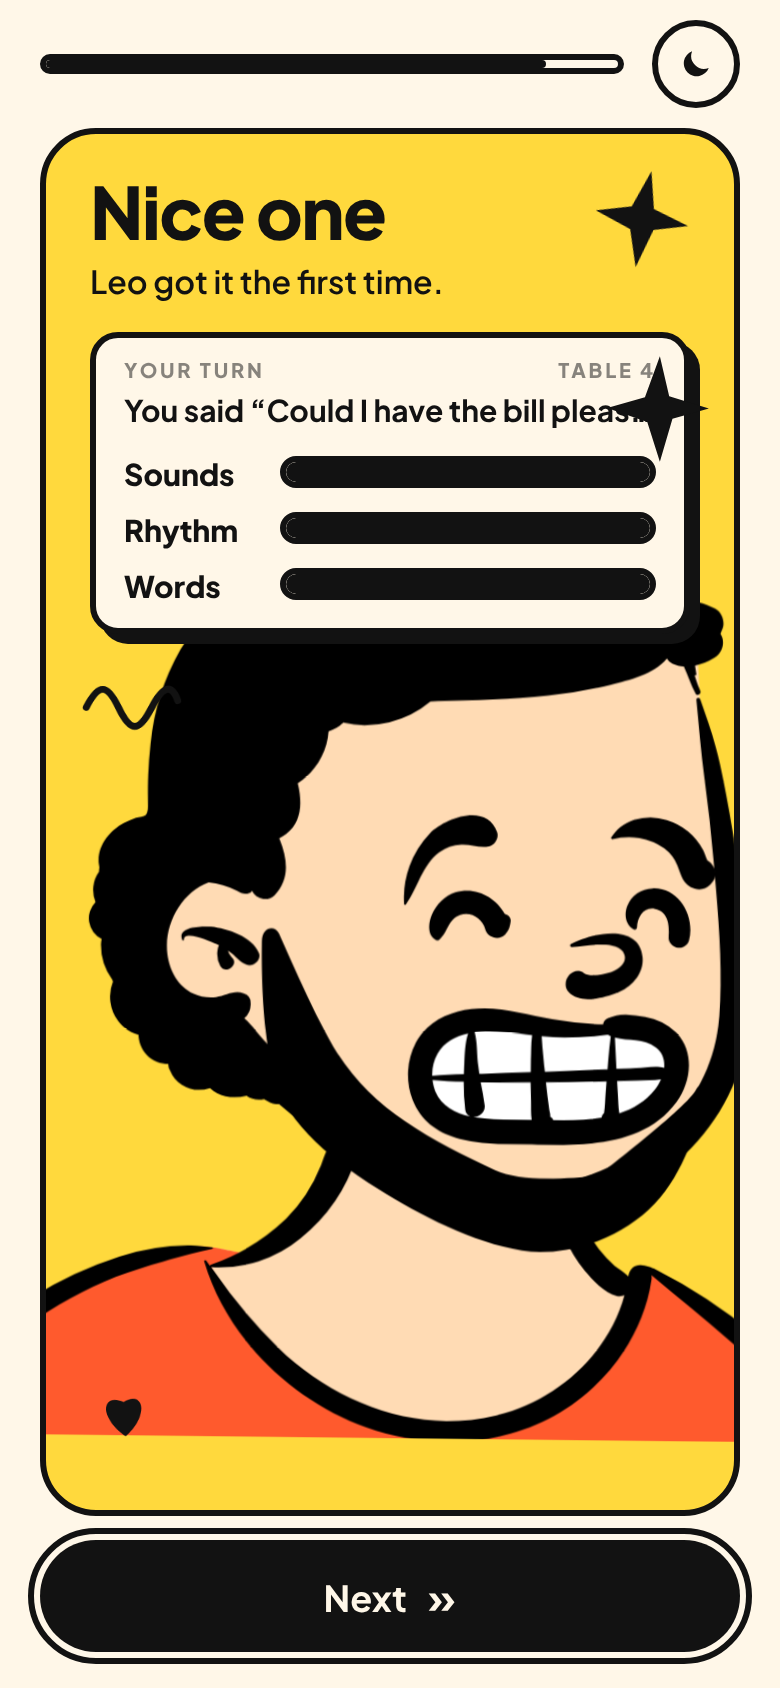
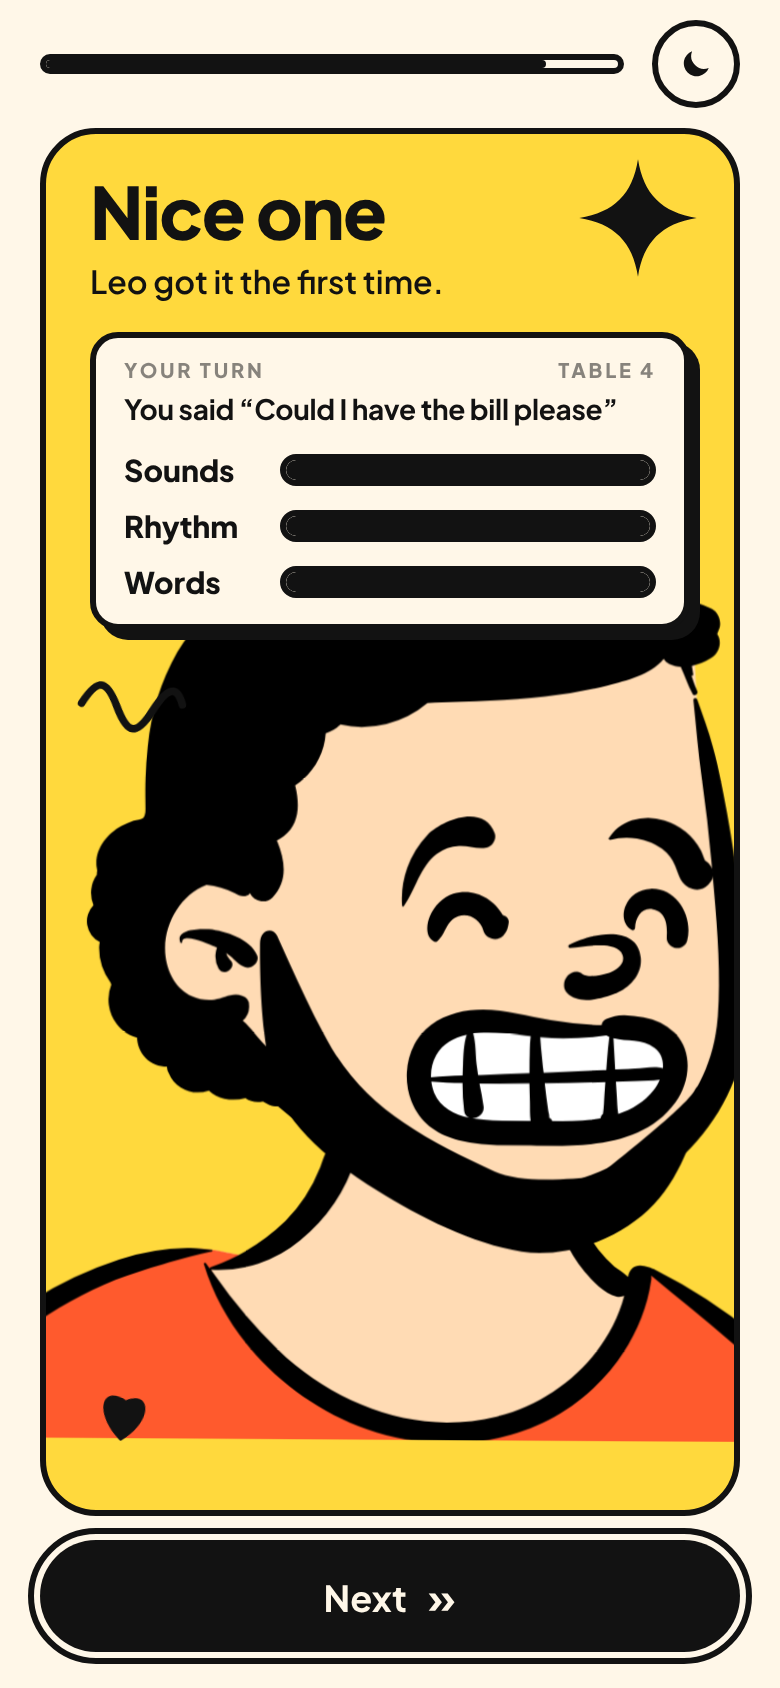
Agent snapshot: remaining round-two prototypes in progress
Claude-Session: https://claude.ai/code/session_01WMiyDundBQ1atNssiSuPtV

diff --git a/docs/prototypes/03-build-the-sentence.html b/docs/prototypes/03-build-the-sentence.html
@@ -102,7 +102,7 @@ h1{margin:0;font-weight:800;font-size:36px;line-height:1.04;letter-spacing:-.02e
 .score .row:nth-child(2){animation-delay:.06s}.score .row:nth-child(3){animation-delay:.12s}
 .score .track{height:16px;border:3px solid var(--ink);border-radius:999px;overflow:hidden}
 .score .track i{display:block;height:100%;width:0;background:var(--ink);border-radius:999px;transition:width .5s var(--spring)}
-.said{margin:0 0 8px;font-size:15px;font-weight:700;line-height:1.3;white-space:nowrap;overflow:hidden;text-overflow:ellipsis;animation:rise .36s var(--spring) both}
+.said{margin:0 0 8px;font-size:14px;letter-spacing:-.01em;font-weight:700;line-height:1.3;white-space:nowrap;overflow:hidden;text-overflow:ellipsis;animation:rise .36s var(--spring) both}
 .said q{quotes:"\201C" "\201D"}
 
 /* ---------- Leo, oversized and cropped at the card edge ----------
@@ -137,7 +137,8 @@ h1{margin:0;font-weight:800;font-size:36px;line-height:1.04;letter-spacing:-.02e
 .stick svg{display:block}
 .tw{animation:twinkle 4s ease-in-out infinite}
 @keyframes twinkle{0%,100%{transform:scale(1) rotate(0)}42%{transform:scale(1.2) rotate(11deg)}68%{transform:scale(.93) rotate(-5deg)}}
-.s-star{top:20px;right:24px}
+.s-star{top:20px;right:24px;transition:opacity .2s}
+.card.burst-on .s-star{opacity:0}
 .s-squiggle{top:232px;left:18px;animation-delay:.9s}
 .s-heart{bottom:34px;left:24px;animation-delay:1.8s}
 .card.tall .s-squiggle{top:268px}
@@ -162,7 +163,7 @@ h1{margin:0;font-weight:800;font-size:36px;line-height:1.04;letter-spacing:-.02e
 @keyframes blink{0%,92%,100%{transform:scaleY(1)}94%,98%{transform:scaleY(.1)}}
 .blobert #bl-arm-right,.blobert #bl-broom{transform-origin:184px 120px;transition:transform .16s var(--spring)}
 .blobert.sweep #bl-arm-right,.blobert.sweep #bl-broom{animation:sweep .7s var(--spring) 1 both}
-@keyframes sweep{0%{transform:rotate(-55deg)}45%{transform:rotate(48deg)}100%{transform:rotate(0)}}
+@keyframes sweep{0%{transform:rotate(-30deg)}40%{transform:rotate(95deg)}70%{transform:rotate(70deg)}100%{transform:rotate(0)}}
 .blobert #bl-arm-left{transform-origin:62px 128px}
 .blobert.wave #bl-arm-left{animation:wave .32s ease-in-out 2}
 @keyframes wave{0%,100%{transform:rotate(0)}50%{transform:rotate(-70deg)}}
@@ -323,7 +324,7 @@ h1{margin:0;font-weight:800;font-size:36px;line-height:1.04;letter-spacing:-.02e
         </g>
         <g id="bl-arm-left"><path d="M62 128c-16 4-26 16-24 30"/><circle cx="36" cy="160" r="8" fill="#CDB8FF"/></g>
         <g id="bl-arm-right"><path d="M184 120c16 2 28 12 30 26"/><circle cx="216" cy="148" r="8" fill="#CDB8FF"/></g>
-        <g id="bl-broom" transform="rotate(-24 216 148)"><path d="M216 148l10-70" stroke-width="6"/><path fill="#FFD93D" d="M214 78l24 0 8 30-40 0z"/><path d="M222 108l-2 14M232 108l0 14M242 108l2 14" stroke-width="4"/></g>
+        <g id="bl-broom"><g transform="rotate(-24 216 148)"><path d="M216 148l10-70" stroke-width="6"/><path fill="#FFD93D" d="M214 78l24 0 8 30-40 0z"/><path d="M222 108l-2 14M232 108l0 14M242 108l2 14" stroke-width="4"/></g></g>
         <g id="bl-stars" fill="#121212" stroke="none"><path d="M40 60l4 10 10 4-10 4-4 10-4-10-10-4 10-4z"/><path d="M196 44l3 7 7 3-7 3-3 7-3-7-7-3 7-3z"/></g>
       </svg>
     </div>
@@ -427,6 +428,12 @@ h1{margin:0;font-weight:800;font-size:36px;line-height:1.04;letter-spacing:-.02e
     lastSticker = keys[Math.floor(Math.random() * keys.length)];
     return lastSticker;
   }
+  function popStar(size, shape){
+    var cr = card.getBoundingClientRect();
+    card.classList.add("burst-on");
+    setTimeout(function(){ card.classList.remove("burst-on"); }, 1700);
+    return popSticker(cr.width - 24 - size + 2, 20 - (size - 44) / 2, size, shape);
+  }
   function popSticker(x, y, size, shape){
     var s = document.createElement("span");
     s.className = "burst go";
@@ -522,6 +529,8 @@ h1{margin:0;font-weight:800;font-size:36px;line-height:1.04;letter-spacing:-.02e
     return lastGag;
   }
   function caption(text, x, y){
+    var sr = slip.getBoundingClientRect(), cr = card.getBoundingClientRect();
+    y = Math.max(y, sr.top - cr.top - 16); x = Math.min(Math.max(x, 12), cr.width - 90);
     var c = document.createElement("span");
     c.className = "cap"; c.textContent = text;
     c.style.left = x + "px"; c.style.top = y + "px";
@@ -633,8 +642,7 @@ h1{margin:0;font-weight:800;font-size:36px;line-height:1.04;letter-spacing:-.02e
     mood("happy"); pose("happy");
     slip.style.transform = "rotate(1deg) scale(1.03)";
     setTimeout(function(){ slip.style.transform = ""; }, 500);
-    var sr = slip.getBoundingClientRect(), cr = card.getBoundingClientRect();
-    popSticker(sr.right - cr.left - 56, sr.top - cr.top - 34, 64, "burst");
+    popStar(72, "burst");
     setHead("That's it", "Now say it to Leo.");
     announce("Sentence complete. " + SENTENCE);
     bank.classList.add("out");
@@ -675,7 +683,7 @@ h1{margin:0;font-weight:800;font-size:36px;line-height:1.04;letter-spacing:-.02e
     phase = "speak"; mood("listen"); pose("listen");
     setHead("Your turn", "Say: " + SENTENCE);
     listening(false);
-    bank.hidden = true; typed.hidden = false; cta.disabled = true; key.hidden = true;
+    bank.hidden = true; typed.hidden = false; cta.disabled = true; key.hidden = true; $("cta-row").hidden = true;
     say.value = ""; say.focus();
   }
   typed.onsubmit = function(e){ e.preventDefault(); if (say.value.trim()) scored(say.value); };
@@ -706,8 +714,7 @@ h1{margin:0;font-weight:800;font-size:36px;line-height:1.04;letter-spacing:-.02e
     setHead(good ? "Nice one" : "Nearly", good ? "Leo got it the first time." : "Try it with me once more.");
     progress(7);
     if (good){
-      var cr = card.getBoundingClientRect(), r2 = score.getBoundingClientRect();
-      popSticker(r2.right - cr.left - 30, r2.top - cr.top - 50, 56);
+      popStar(64);
     }
     announce((good ? "Nice one. " : "Nearly. ") + "Sounds " + Math.round(s * 100) + ", rhythm " + Math.round(r * 100) + ", words " + Math.round(w * 100) + " out of 100.");
     listening(false);

diff --git a/docs/prototypes/09-yesterday-today-tomorrow.html b/docs/prototypes/09-yesterday-today-tomorrow.html
@@ -154,7 +154,6 @@ h1{margin:0;font-size:32px;line-height:1.05;font-weight:800;letter-spacing:-.02e
 @keyframes twinkle{0%,100%{transform:scale(1) rotate(0)}42%{transform:scale(1.2) rotate(11deg)}68%{transform:scale(.93) rotate(-5deg)}}
 .s-star{top:18px;right:18px}
 .s-squig{bottom:150px;right:14px;animation-delay:1.1s}
-.s-heart{bottom:34px;left:16px;animation-delay:2s}
 .burst{position:absolute;z-index:5;width:72px;height:72px;color:var(--ink);pointer-events:none;opacity:0}
 .burst svg{width:100%;height:100%;display:block}
 .burst.go{animation:burst .55s var(--spring) both}
@@ -252,11 +251,11 @@ h1{margin:0;font-size:32px;line-height:1.05;font-weight:800;letter-spacing:-.02e
 #bl-arm-right,#bl-broom{transform-box:view-box;transform-origin:184px 120px}
 #bl-stars{opacity:0}
 .blob.sweep #bl-arm-right,.blob.sweep #bl-broom{animation:sweep .34s ease-in-out both}
-@keyframes sweep{0%{transform:rotate(0)}50%{transform:rotate(88deg)}100%{transform:rotate(60deg)}}
+@keyframes sweep{0%{transform:rotate(40deg)}50%{transform:rotate(118deg)}100%{transform:rotate(80deg)}}
 .blob.crane #bl-arm-right,.blob.crane #bl-broom{animation:crane .36s var(--ease) both}
-@keyframes crane{0%{transform:rotate(0)}45%{transform:rotate(96deg)}100%{transform:rotate(-30deg)}}
+@keyframes crane{0%{transform:rotate(0)}40%{transform:rotate(112deg)}100%{transform:rotate(-20deg)}}
 .blob.flick #bl-arm-right,.blob.flick #bl-broom{animation:flick .3s var(--ease) both}
-@keyframes flick{0%{transform:rotate(80deg)}60%{transform:rotate(-70deg)}100%{transform:rotate(-40deg)}}
+@keyframes flick{0%{transform:rotate(110deg)}60%{transform:rotate(-50deg)}100%{transform:rotate(-20deg)}}
 .blob.eat #bl-mouth{transform-box:fill-box;transform-origin:50% 30%;animation:chomp .32s ease-in-out both}
 @keyframes chomp{0%{transform:scale(1)}40%{transform:scale(1.5,2.2)}70%{transform:scale(1.1,1.4)}100%{transform:scale(1)}}
 .blob.eat #bl-stars{animation:burp .4s var(--ease) .3s both}
@@ -346,7 +345,6 @@ h1{margin:0;font-size:32px;line-height:1.05;font-weight:800;letter-spacing:-.02e
     <!-- stickers -->
     <span class="stick s-star tw" aria-hidden="true"><svg width="40" height="40" viewBox="0 0 24 24"><path d="M12.4.9 14.4 9.5 22.9 12.1 15.1 14.3 12.4 23.5 9.7 15 1.1 12 9.2 9.7Z" fill="currentColor"/></svg></span>
     <span class="stick s-squig tw" aria-hidden="true"><svg width="50" height="30" viewBox="0 0 50 24" fill="none" stroke="currentColor" stroke-width="3.4" stroke-linecap="round"><path d="M2.5 16C7 4.2 14.5 20.9 20.5 11.1 24.4 4.8 31 17.5 36 9.4c2.6-4.2 7-1.4 11.5-4.4"/></svg></span>
-    <span class="stick s-heart tw" aria-hidden="true"><svg width="30" height="30" viewBox="0 0 24 24"><path d="M11.7 21.6C1.5 13.4 3.1 3.9 12 7.9c8.2-4.8 10.7 5.6.4 14.1Z" fill="currentColor"/></svg></span>
     <span class="burst" id="burst" aria-hidden="true"></span>
     <div class="bubble" id="bubble" hidden></div>
   </div>
@@ -608,6 +606,7 @@ h1{margin:0;font-size:32px;line-height:1.05;font-weight:800;letter-spacing:-.02e
   function blobertGag(tile, done) {
     var g;
     do { g = Math.floor(Math.random() * GAGS.length); } while (g === lastGag);
+    if (window.__forceGag && GAGS.indexOf(window.__forceGag) >= 0) g = GAGS.indexOf(window.__forceGag);
     lastGag = g;
     var gag = GAGS[g];
     var tr = tile.getBoundingClientRect();
@@ -615,9 +614,9 @@ h1{margin:0;font-size:32px;line-height:1.05;font-weight:800;letter-spacing:-.02e
     // he stands on the side with room, his broom hand level with the tile
     var fromRight = tr.left + tr.width / 2 < window.innerWidth / 2;
     var flip = fromRight ? "scaleX(-1) " : "";
-    var left = fromRight ? tr.right - 30 : tr.left - bw + 30;
-    var top = tr.top - 104;
-    if (gag === "eat") { left = tr.left + tr.width / 2 - bw / 2 + (fromRight ? 8 : -8); top = tr.top - 112; }
+    var left = fromRight ? tr.right - 44 : tr.left - bw + 44;
+    var top = tr.top - 150;
+    if (gag === "eat") { left = tr.left + tr.width / 2 - bw / 2 + (fromRight ? 8 : -8); top = tr.top - 124; }
     blob.style.left = left + "px"; blob.style.top = top + "px";
     blob.className = "blob " + gag;
     var fromX = fromRight ? -120 : 120;
@@ -765,6 +764,7 @@ h1{margin:0;font-size:32px;line-height:1.05;font-weight:800;letter-spacing:-.02e
   var sayIndex = 0;
   function startSay() {
     phase = "say";
+    knob.setAttribute("aria-disabled", "true");
     sayIndex = 0;
     tries = 0;
     rail.hidden = true;
@@ -879,7 +879,7 @@ h1{margin:0;font-size:32px;line-height:1.05;font-weight:800;letter-spacing:-.02e
     if (phase === "build") {
       if (built[t]) { var left = [0, 1, 2].filter(function (i) { return !built[i]; }); if (left.length) setTime(left[0], true); }
       if (ok) pickTile(tiles[t]);
-      else pickTile(tiles[(t + 1) % 3]);
+      else { var wrong = [0, 1, 2].filter(function (i) { return i !== t && !built[i]; }); pickTile(tiles[wrong.length ? wrong[0] : (t + 1) % 3]); }
     } else if (phase === "say") {
       if (busy && typed.hidden) { clearInterval(talkTimer); if (synth) { try { synth.cancel(); } catch (x) {} } }
       judge(ok ? sentence(t) : "I shop");

diff --git a/docs/prototypes/01-talk-with-maya.html b/docs/prototypes/01-talk-with-maya.html
@@ -197,7 +197,7 @@ h1{margin:0; padding-right:56px; font-weight:800; font-size:38px; line-height:1.
 .cap.go{animation:capIn .3s var(--spring) both}
 @keyframes capIn{to{opacity:1; transform:scale(1) rotate(-8deg)}}
 .cap-hup{right:70px; bottom:186px}
-.cap-gag{right:184px; bottom:150px}
+.cap-gag{right:196px; bottom:122px}
 .burp{position:absolute; z-index:6; right:96px; bottom:118px; width:44px; height:44px; color:var(--ink); opacity:0; pointer-events:none}
 .burp.go{animation:burp .6s var(--spring) both}
 @keyframes burp{from{opacity:0; transform:translateY(0) scale(.2)} 40%{opacity:1} to{opacity:0; transform:translate(-30px,-60px) scale(1.1) rotate(30deg)}}

diff --git a/docs/content/a2-1-week-three.md b/docs/content/a2-1-week-three.md
@@ -108,7 +108,7 @@ Spacing is carried by the engine's half-life ladder; what the content decides is
 
 ## 7. How the path reaches each atom
 
-No date and no hard-coded week number: prerequisites hold the shape. `prerequisitesMet` (`engine.ts`) passes a criterion at Consolidating or better, which is level 2.
+No date and no hard-coded week number: prerequisites and the authored order hold the shape. `prerequisitesMet` (`engine.ts`) passes a criterion at Consolidating or better, which is level 2.
 
 | Atom | `prerequisites` | Earliest day it can be served |
 | --- | --- | --- |
@@ -127,7 +127,7 @@ Five days composed with `composeSession` against a learner who has week one at K
 
 | # | Finding | Evidence from the run | Proposed fix | Owner |
 | --- | --- | --- | --- | --- |
-| 1 | A single-can-do week loses to strand balancing from day 2. The week bonus is 0.25 and the strand-deficit term is worth up to 0.30, so once the week's strand has had one day's work, any week-one atom in an untouched strand outscores the week's own next atom | Day 2 served `ATM-A2-GRM-0002` (score 1.01) ahead of `ATM-A2-INT-0022` (0.95), and day 3 served `ATM-A2-LST-0004` | Inside the week's can-do, strand balance is not the engine's business. Treat `deficit` as 1 for an atom whose criterion is in `week_can_do`. With that one line changed, the same run serves 0021, 0022 and 0023 on days 1, 2 and 3 | Dev |
+| 1 | A single-can-do week loses to strand balancing from day 2. The week bonus is 0.25 and the strand-deficit term is worth up to 0.30, so once the week's strand has had one day's work, any week-one atom in an untouched strand outscores the week's own next atom | Day 2 served `ATM-A2-GRM-0002` (score 1.01) ahead of `ATM-A2-INT-0022` (0.96, strand deficit 0.00 against 1.00), and day 3 served `ATM-A2-LST-0004` | Inside the week's can-do, strand balance is not the engine's business. Treat `deficit` as 1 for an atom whose criterion is in `week_can_do`. With that one line changed, the same run serves 0021, 0022 and 0023 on days 1, 2 and 3 | Dev |
 | 2 | New content pauses on day 4 and stays paused. The recall echo serves 8 items a day, a session creates about 20, so the overdue count crosses the 25 cap on day 3 and never comes down | Day 4 reported 45 overdue, day 5 the same. Raising the echo to 16 changes nothing, because only 10 due items are eligible: `isRecallable` excludes `shadow`, `roleplay`, `relay` and `say_it_see_it`, which is most of a spoken week. Counting only recallable items still leaves 34 against the cap of 25 | Two parts. Count only items the echo can actually serve in the pause test, and schedule the chunk rather than every item: `Item.retrieves` is in `types.ts` and is read nowhere, so a run-up item that retrieves the atom's target sentence should credit that target instead of opening a schedule of its own. §0 of the learning model already calls the chunk the unit of scheduling | Dev, with me on the scheduling rule |
 | 3 | `composeSession` hard-codes `ATM-A2-INT-0011` as the day-5 use atom, which is week one's cafe teach-it-back | Day 5 served the cafe performance to a learner who spent the week in a shop | Serve the performance atom of the week's own can-do, found through `week_can_do`, and exclude it from `LEARNING_ATOMS` the way 0011 and the fluency atom already are | Dev |
 
